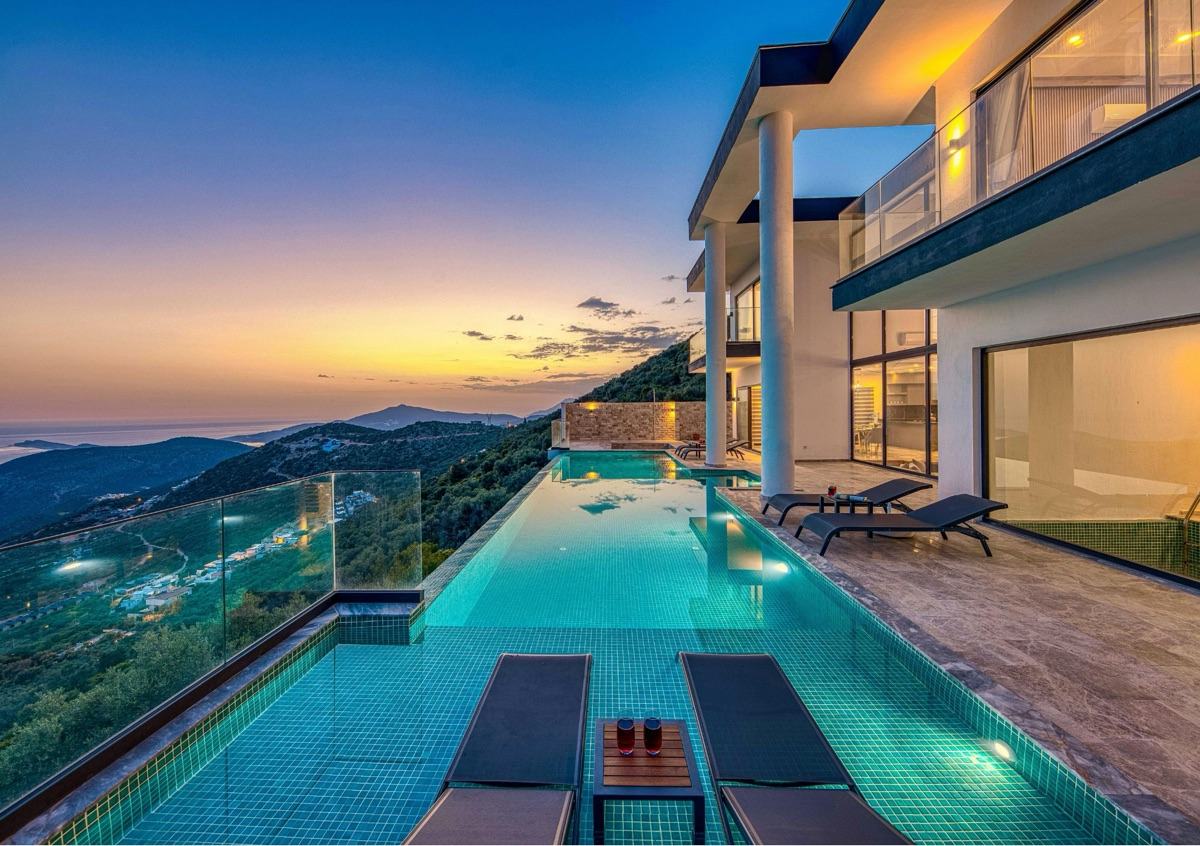
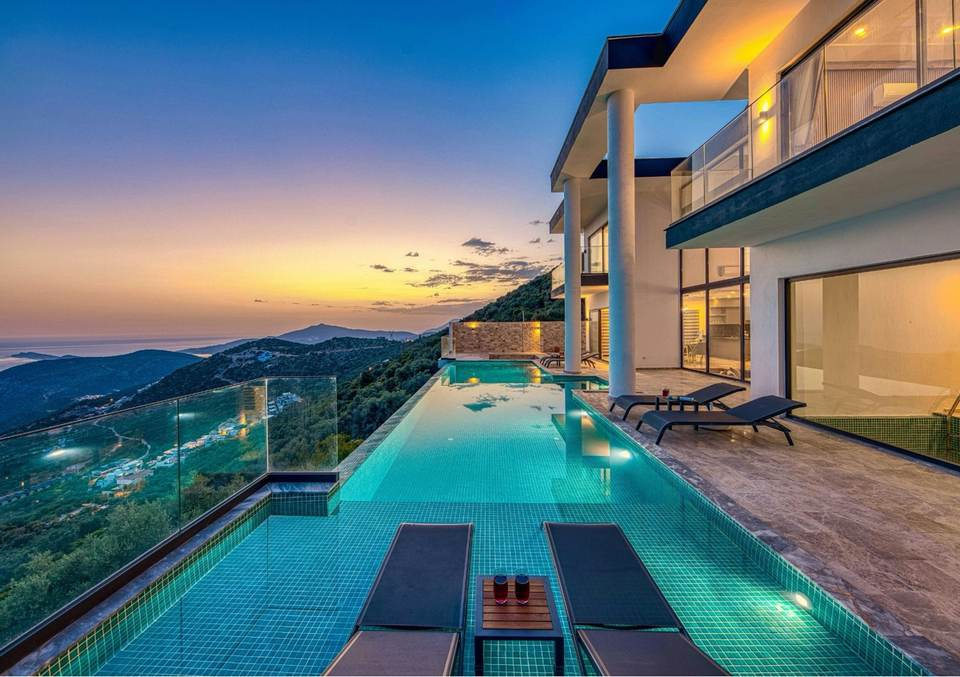
Perf mobile round 2 : images responsives + accessibilité AA
- Photos accueil réencodées 960w progressif (villa-illu 356→90 Ko, services-jet
  176→53 Ko, villa-accueil 484→192 Ko) ; copies -960 des 6 photos yachts de
  l'accueil (~-50 %), carrousels page yachts inchangés
- Logos affichés : qasar-mark-small.png (47→9 Ko) et qasar-mark-gold-small.png
  (75→16 Ko) pour header/préloader/footer/contact
- Unsplash w=1200→w=800&q=70 (cartes accueil + grille villas floutée)
- Rideau préloader : 250 ms + transition 0,6 s (LCP plus tôt)
- Cache assets : 1 an immutable (vercel.json)
- A11y : role="region" sur la carte réseau, contraste footer 0.4→0.72,
  retrait de l'aria-label divergent du lien de défilement hero

diff --git a/index.html b/index.html
@@ -25,7 +25,7 @@
   <!-- ══════════ PRELOADER ══════════ -->
   <div class="preloader" id="preloader" aria-hidden="true">
     <div class="preloader__inner">
-      <img src="assets/qasar-mark-only.png" alt="" class="preloader__mark">
+      <img src="assets/qasar-mark-small.png" alt="" class="preloader__mark">
       <div class="preloader__word">Q&nbsp;A&nbsp;S&nbsp;A&nbsp;R</div>
       <div class="preloader__line"></div>
     </div>
@@ -35,7 +35,7 @@
   <header class="header" id="header">
     <div class="header__inner">
       <a href="#hero" class="header__brand" aria-label="QASAR — retour en haut">
-        <img src="assets/qasar-mark-only.png" alt="" class="header__mark">
+        <img src="assets/qasar-mark-small.png" alt="" class="header__mark" width="320" height="361">
         <span class="header__logotype">QASAR<em>International Broker</em></span>
       </a>
       <div class="header__verticals" aria-hidden="true">
@@ -96,7 +96,7 @@
           <a href="contact.html" class="btn btn--gold" data-magnetic>Faire une demande</a>
         </div>
       </div>
-      <a href="#maison" class="hero__scroll" aria-label="Défiler vers le bas">
+      <a href="#maison" class="hero__scroll">
         <span class="hero__scroll-label">Découvrir</span>
         <span class="hero__scroll-line"></span>
       </a>
@@ -110,7 +110,7 @@
 
         <div class="services__grid" data-reveal-group>
           <div class="service service--visual" data-reveal>
-            <img class="service__bg" src="assets/yachts/lamborghini-63-1.jpg" alt="Yacht Lamborghini 63 vu du ciel" loading="lazy">
+            <img class="service__bg" src="assets/yachts/lamborghini-63-1-960.jpg" alt="Yacht Lamborghini 63 vu du ciel" loading="lazy">
             <div class="service__content">
               <h3>Yachts</h3>
               <p>Charters privés à la journée, à la semaine ou à la saison. Équipages certifiés, itinéraires dessinés sur mesure, un service entièrement dédié à bord.</p>
@@ -151,7 +151,7 @@
       <div class="container">
         <div class="domain__split">
           <figure class="domain__figure" data-reveal-clip>
-            <img src="assets/yachts/azimut-100-1.jpg"
+            <img src="assets/yachts/azimut-100-1-960.jpg"
                  alt="Yacht Azimut 100" loading="lazy">
             <figcaption class="domain__caption">Méditerranée — 42° 17′ N</figcaption>
           </figure>
@@ -176,7 +176,7 @@
         <div class="cards cards--yachts-home" data-reveal-group>
           <article class="card" data-reveal>
             <div class="card__media">
-              <img src="assets/yachts/wajer-55-1.jpg" alt="Yacht Wajer 55 HT" loading="lazy">
+              <img src="assets/yachts/wajer-55-1-960.jpg" alt="Yacht Wajer 55 HT" loading="lazy">
             </div>
             <div class="card__body">
               <h3 class="card__name">Wajer 55 HT — 16.1 m</h3>
@@ -192,7 +192,7 @@
           </article>
           <article class="card" data-reveal>
             <div class="card__media">
-              <img src="assets/yachts/princess-v55-1.jpg" alt="Yacht Princess V55" loading="lazy">
+              <img src="assets/yachts/princess-v55-1-960.jpg" alt="Yacht Princess V55" loading="lazy">
             </div>
             <div class="card__body">
               <h3 class="card__name">Princess V55 — 17.3 m</h3>
@@ -208,7 +208,7 @@
           </article>
           <article class="card" data-reveal>
             <div class="card__media">
-              <img src="assets/yachts/predator-65-1.jpg" alt="Yacht Predator 65" loading="lazy">
+              <img src="assets/yachts/predator-65-1-960.jpg" alt="Yacht Predator 65" loading="lazy">
             </div>
             <div class="card__body">
               <h3 class="card__name">Predator 65 — 20.5 m</h3>
@@ -224,7 +224,7 @@
           </article>
           <article class="card card--desktop-only" data-reveal>
             <div class="card__media">
-              <img src="assets/yachts/riva-corsaro-100-1.jpg" alt="Yacht Riva Corsaro 100" loading="lazy">
+              <img src="assets/yachts/riva-corsaro-100-1-960.jpg" alt="Yacht Riva Corsaro 100" loading="lazy">
             </div>
             <div class="card__body">
               <h3 class="card__name">Riva Corsaro 100 — 29.9 m</h3>
@@ -275,7 +275,7 @@
         <div class="cards" data-reveal-group>
           <article class="card" data-reveal>
             <div class="card__media">
-              <img src="https://images.unsplash.com/photo-1512917774080-9991f1c4c750?w=1200&q=80&auto=format&fit=crop" alt="Villa moderne avec piscine illuminée" loading="lazy">
+              <img src="https://images.unsplash.com/photo-1512917774080-9991f1c4c750?w=800&q=70&auto=format&fit=crop" alt="Villa moderne avec piscine illuminée" loading="lazy">
             </div>
             <div class="card__body">
               <h3 class="card__name">Villa Émeraude</h3>
@@ -291,7 +291,7 @@
           </article>
           <article class="card" data-reveal>
             <div class="card__media">
-              <img src="https://images.unsplash.com/photo-1613490493576-7fde63acd811?w=1200&q=80&auto=format&fit=crop" alt="Villa d'architecte de nuit" loading="lazy">
+              <img src="https://images.unsplash.com/photo-1613490493576-7fde63acd811?w=800&q=70&auto=format&fit=crop" alt="Villa d'architecte de nuit" loading="lazy">
             </div>
             <div class="card__body">
               <h3 class="card__name">Dar Qamar</h3>
@@ -307,7 +307,7 @@
           </article>
           <article class="card" data-reveal>
             <div class="card__media">
-              <img src="https://images.unsplash.com/photo-1517320964276-a002fa203177?w=1200&q=80&auto=format&fit=crop" alt="Chalet sous la neige entouré de sapins" loading="lazy">
+              <img src="https://images.unsplash.com/photo-1517320964276-a002fa203177?w=800&q=70&auto=format&fit=crop" alt="Chalet sous la neige entouré de sapins" loading="lazy">
             </div>
             <div class="card__body">
               <h3 class="card__name">Chalet Altair</h3>
@@ -444,7 +444,7 @@
       <div class="container">
         <p class="kicker kicker--light" data-reveal><span class="kicker__rule"></span>Le réseau</p>
         <h2 class="network__title" data-reveal>Chaque saison a sa destination.<br><em>Nous y sommes déjà.</em></h2>
-        <div class="network__map" id="qasarMap" data-reveal aria-label="Carte des destinations Qasar : Côte d'Azur, Courchevel, Paris, Londres, Ibiza, Saint-Barthélemy, Miami, Mykonos, Dubaï"></div>
+        <div class="network__map" id="qasarMap" data-reveal role="region" aria-label="Carte des destinations Qasar : Côte d'Azur, Courchevel, Paris, Londres, Ibiza, Saint-Barthélemy, Miami, Mykonos, Dubaï"></div>
         <ul class="network__legend" data-reveal>
           <li class="is-hub">Côte d'Azur — hub</li>
           <li>Courchevel</li>
@@ -517,7 +517,7 @@
       </div>
       <div class="contact__panel contact__panel--info">
         <div>
-          <img src="assets/qasar-mark-gold.png" alt="QASAR International Broker" class="contact__logo" data-reveal>
+          <img src="assets/qasar-mark-gold-small.png" alt="QASAR International Broker" class="contact__logo" width="480" height="480" data-reveal>
           <p class="contact__lede" data-reveal>Une demande, une réponse.<br>Notre équipe vous recontacte <em>au plus vite</em>, où que vous soyez.</p>
           <address class="contact__details" data-reveal-group>
             <p data-reveal><span>Écrire</span><a href="mailto:contact@qasar-international.com">contact@qasar-international.com</a></p>
@@ -534,7 +534,7 @@
   <!-- ══════════ FOOTER ══════════ -->
   <footer class="footer">
     <div class="container footer__inner">
-      <img src="assets/qasar-mark-gold.png" alt="QASAR International Broker" class="footer__logo">
+      <img src="assets/qasar-mark-gold-small.png" alt="QASAR International Broker" class="footer__logo" width="480" height="480">
       <nav class="footer__nav" aria-label="Navigation pied de page">
         <a href="#hero">Accueil</a>
         <a href="yachts.html">Yachts</a>

diff --git a/contact.html b/contact.html
@@ -24,7 +24,7 @@
   <!-- ══════════ PRELOADER ══════════ -->
   <div class="preloader" id="preloader" aria-hidden="true">
     <div class="preloader__inner">
-      <img src="assets/qasar-mark-only.png" alt="" class="preloader__mark">
+      <img src="assets/qasar-mark-small.png" alt="" class="preloader__mark">
       <div class="preloader__word">Q&nbsp;A&nbsp;S&nbsp;A&nbsp;R</div>
       <div class="preloader__line"></div>
     </div>
@@ -34,7 +34,7 @@
   <header class="header" id="header">
     <div class="header__inner">
       <a href="index.html" class="header__brand" aria-label="QASAR — retour à l'accueil">
-        <img src="assets/qasar-mark-only.png" alt="" class="header__mark">
+        <img src="assets/qasar-mark-small.png" alt="" class="header__mark" width="320" height="361">
         <span class="header__logotype">QASAR<em>International Broker</em></span>
       </a>
       <div class="header__verticals" aria-hidden="true">
@@ -151,7 +151,7 @@
       </div>
       <div class="contact__panel contact__panel--info">
         <div>
-          <img src="assets/qasar-mark-gold.png" alt="QASAR International Broker" class="contact__logo" data-reveal>
+          <img src="assets/qasar-mark-gold-small.png" alt="QASAR International Broker" class="contact__logo" width="480" height="480" data-reveal>
           <p class="contact__lede" data-reveal>Une demande, une réponse.<br>Notre équipe vous recontacte <em>au plus vite</em>, où que vous soyez.</p>
           <address class="contact__details" data-reveal-group>
             <p data-reveal><span>Écrire</span><a href="mailto:contact@qasar-international.com">contact@qasar-international.com</a></p>
@@ -168,7 +168,7 @@
   <!-- ══════════ FOOTER ══════════ -->
   <footer class="footer">
     <div class="container footer__inner">
-      <img src="assets/qasar-mark-gold.png" alt="QASAR International Broker" class="footer__logo">
+      <img src="assets/qasar-mark-gold-small.png" alt="QASAR International Broker" class="footer__logo" width="480" height="480">
       <nav class="footer__nav" aria-label="Navigation pied de page">
         <a href="index.html">Accueil</a>
         <a href="yachts.html">Yachts</a>

diff --git a/services.html b/services.html
@@ -25,7 +25,7 @@
   <!-- ══════════ PRELOADER ══════════ -->
   <div class="preloader" id="preloader" aria-hidden="true">
     <div class="preloader__inner">
-      <img src="assets/qasar-mark-only.png" alt="" class="preloader__mark">
+      <img src="assets/qasar-mark-small.png" alt="" class="preloader__mark">
       <div class="preloader__word">Q&nbsp;A&nbsp;S&nbsp;A&nbsp;R</div>
       <div class="preloader__line"></div>
     </div>
@@ -35,7 +35,7 @@
   <header class="header" id="header">
     <div class="header__inner">
       <a href="index.html" class="header__brand" aria-label="QASAR — retour à l'accueil">
-        <img src="assets/qasar-mark-only.png" alt="" class="header__mark">
+        <img src="assets/qasar-mark-small.png" alt="" class="header__mark" width="320" height="361">
         <span class="header__logotype">QASAR<em>International Broker</em></span>
       </a>
       <div class="header__verticals" aria-hidden="true">
@@ -162,7 +162,7 @@
       </div>
       <div class="contact__panel contact__panel--info">
         <div>
-          <img src="assets/qasar-mark-gold.png" alt="QASAR International Broker" class="contact__logo" data-reveal>
+          <img src="assets/qasar-mark-gold-small.png" alt="QASAR International Broker" class="contact__logo" width="480" height="480" data-reveal>
           <p class="contact__lede" data-reveal>Une demande, une réponse.<br>Notre équipe vous recontacte <em>au plus vite</em>, où que vous soyez.</p>
           <address class="contact__details" data-reveal-group>
             <p data-reveal><span>Écrire</span><a href="mailto:contact@qasar-international.com">contact@qasar-international.com</a></p>
@@ -179,7 +179,7 @@
   <!-- ══════════ FOOTER ══════════ -->
   <footer class="footer">
     <div class="container footer__inner">
-      <img src="assets/qasar-mark-gold.png" alt="QASAR International Broker" class="footer__logo">
+      <img src="assets/qasar-mark-gold-small.png" alt="QASAR International Broker" class="footer__logo" width="480" height="480">
       <nav class="footer__nav" aria-label="Navigation pied de page">
         <a href="index.html">Accueil</a>
         <a href="yachts.html">Yachts</a>

diff --git a/villas.html b/villas.html
@@ -25,7 +25,7 @@
   <!-- ══════════ PRELOADER ══════════ -->
   <div class="preloader" id="preloader" aria-hidden="true">
     <div class="preloader__inner">
-      <img src="assets/qasar-mark-only.png" alt="" class="preloader__mark">
+      <img src="assets/qasar-mark-small.png" alt="" class="preloader__mark">
       <div class="preloader__word">Q&nbsp;A&nbsp;S&nbsp;A&nbsp;R</div>
       <div class="preloader__line"></div>
     </div>
@@ -35,7 +35,7 @@
   <header class="header" id="header">
     <div class="header__inner">
       <a href="index.html" class="header__brand" aria-label="QASAR — retour à l'accueil">
-        <img src="assets/qasar-mark-only.png" alt="" class="header__mark">
+        <img src="assets/qasar-mark-small.png" alt="" class="header__mark" width="320" height="361">
         <span class="header__logotype">QASAR<em>International Broker</em></span>
       </a>
       <div class="header__verticals" aria-hidden="true">
@@ -176,7 +176,7 @@
       </div>
       <div class="contact__panel contact__panel--info">
         <div>
-          <img src="assets/qasar-mark-gold.png" alt="QASAR International Broker" class="contact__logo" data-reveal>
+          <img src="assets/qasar-mark-gold-small.png" alt="QASAR International Broker" class="contact__logo" width="480" height="480" data-reveal>
           <p class="contact__lede" data-reveal>Une demande, une réponse.<br>Notre équipe vous recontacte <em>au plus vite</em>, où que vous soyez.</p>
           <address class="contact__details" data-reveal-group>
             <p data-reveal><span>Écrire</span><a href="mailto:contact@qasar-international.com">contact@qasar-international.com</a></p>
@@ -193,7 +193,7 @@
   <!-- ══════════ FOOTER ══════════ -->
   <footer class="footer">
     <div class="container footer__inner">
-      <img src="assets/qasar-mark-gold.png" alt="QASAR International Broker" class="footer__logo">
+      <img src="assets/qasar-mark-gold-small.png" alt="QASAR International Broker" class="footer__logo" width="480" height="480">
       <nav class="footer__nav" aria-label="Navigation pied de page">
         <a href="index.html">Accueil</a>
         <a href="yachts.html">Yachts</a>

diff --git a/yachts.html b/yachts.html
@@ -24,7 +24,7 @@
   <!-- ══════════ PRELOADER ══════════ -->
   <div class="preloader" id="preloader" aria-hidden="true">
     <div class="preloader__inner">
-      <img src="assets/qasar-mark-only.png" alt="" class="preloader__mark">
+      <img src="assets/qasar-mark-small.png" alt="" class="preloader__mark">
       <div class="preloader__word">Q&nbsp;A&nbsp;S&nbsp;A&nbsp;R</div>
       <div class="preloader__line"></div>
     </div>
@@ -34,7 +34,7 @@
   <header class="header" id="header">
     <div class="header__inner">
       <a href="index.html" class="header__brand" aria-label="QASAR — retour à l'accueil">
-        <img src="assets/qasar-mark-only.png" alt="" class="header__mark">
+        <img src="assets/qasar-mark-small.png" alt="" class="header__mark" width="320" height="361">
         <span class="header__logotype">QASAR<em>International Broker</em></span>
       </a>
       <div class="header__verticals" aria-hidden="true">
@@ -165,7 +165,7 @@
       </div>
       <div class="contact__panel contact__panel--info">
         <div>
-          <img src="assets/qasar-mark-gold.png" alt="QASAR International Broker" class="contact__logo" data-reveal>
+          <img src="assets/qasar-mark-gold-small.png" alt="QASAR International Broker" class="contact__logo" width="480" height="480" data-reveal>
           <p class="contact__lede" data-reveal>Une demande, une réponse.<br>Notre équipe vous recontacte <em>au plus vite</em>, où que vous soyez.</p>
           <address class="contact__details" data-reveal-group>
             <p data-reveal><span>Écrire</span><a href="mailto:contact@qasar-international.com">contact@qasar-international.com</a></p>
@@ -214,7 +214,7 @@
   <!-- ══════════ FOOTER ══════════ -->
   <footer class="footer">
     <div class="container footer__inner">
-      <img src="assets/qasar-mark-gold.png" alt="QASAR International Broker" class="footer__logo">
+      <img src="assets/qasar-mark-gold-small.png" alt="QASAR International Broker" class="footer__logo" width="480" height="480">
       <nav class="footer__nav" aria-label="Navigation pied de page">
         <a href="index.html">Accueil</a>
         <a href="yachts.html">Yachts</a>

diff --git a/cgv.html b/cgv.html
@@ -26,7 +26,7 @@
   <header class="header" id="header">
     <div class="header__inner">
       <a href="index.html" class="header__brand" aria-label="QASAR — retour à l'accueil">
-        <img src="assets/qasar-mark-only.png" alt="" class="header__mark">
+        <img src="assets/qasar-mark-small.png" alt="" class="header__mark" width="320" height="361">
         <span class="header__logotype">QASAR<em>International Broker</em></span>
       </a>
       <div class="header__verticals" aria-hidden="true">
@@ -191,7 +191,7 @@
   <!-- ══════════ FOOTER ══════════ -->
   <footer class="footer">
     <div class="container footer__inner">
-      <img src="assets/qasar-mark-gold.png" alt="QASAR International Broker" class="footer__logo">
+      <img src="assets/qasar-mark-gold-small.png" alt="QASAR International Broker" class="footer__logo" width="480" height="480">
       <nav class="footer__nav" aria-label="Navigation pied de page">
         <a href="index.html">Accueil</a>
         <a href="yachts.html">Yachts</a>

diff --git a/confidentialite.html b/confidentialite.html
@@ -26,7 +26,7 @@
   <header class="header" id="header">
     <div class="header__inner">
       <a href="index.html" class="header__brand" aria-label="QASAR — retour à l'accueil">
-        <img src="assets/qasar-mark-only.png" alt="" class="header__mark">
+        <img src="assets/qasar-mark-small.png" alt="" class="header__mark" width="320" height="361">
         <span class="header__logotype">QASAR<em>International Broker</em></span>
       </a>
       <div class="header__verticals" aria-hidden="true">
@@ -210,7 +210,7 @@
   <!-- ══════════ FOOTER ══════════ -->
   <footer class="footer">
     <div class="container footer__inner">
-      <img src="assets/qasar-mark-gold.png" alt="QASAR International Broker" class="footer__logo">
+      <img src="assets/qasar-mark-gold-small.png" alt="QASAR International Broker" class="footer__logo" width="480" height="480">
       <nav class="footer__nav" aria-label="Navigation pied de page">
         <a href="index.html">Accueil</a>
         <a href="yachts.html">Yachts</a>

diff --git a/css/style.css b/css/style.css
@@ -127,7 +127,7 @@ html.js .kicker.is-inview .kicker__rule { transform: scaleX(1); }
   position: fixed; inset: 0; z-index: 200;
   background: var(--emerald);
   display: flex; align-items: center; justify-content: center;
-  transition: clip-path 1s var(--ease-luxe);
+  transition: clip-path 0.6s var(--ease-luxe);
   clip-path: inset(0 0 0 0);
 }
 .preloader.is-done { clip-path: inset(0 0 100% 0); pointer-events: none; }
@@ -1580,7 +1580,7 @@ html.modal-open, html.modal-open body { overflow: hidden; }
   display: flex; justify-content: space-between; flex-wrap: wrap; gap: 10px;
   font-size: 11.5px;
   letter-spacing: 0.06em;
-  color: rgba(247, 244, 236, 0.4);
+  color: rgba(247, 244, 236, 0.72); /* contraste AA sur fond émeraude */
 }
 .footer__legal a { transition: color 0.3s; }
 .footer__legal a:hover { color: var(--gold); }

diff --git a/js/main.js b/js/main.js
@@ -43,7 +43,7 @@
   } else {
     /* rideau court et indépendant de window.load : la vidéo hero est
        chargée après coup (voir lazyHeroVideos), le poster sert de LCP */
-    setTimeout(openCurtain, 450);
+    setTimeout(openCurtain, 250);
   }
 
   /* ── Header : état scrollé ───────────────────────────── */
